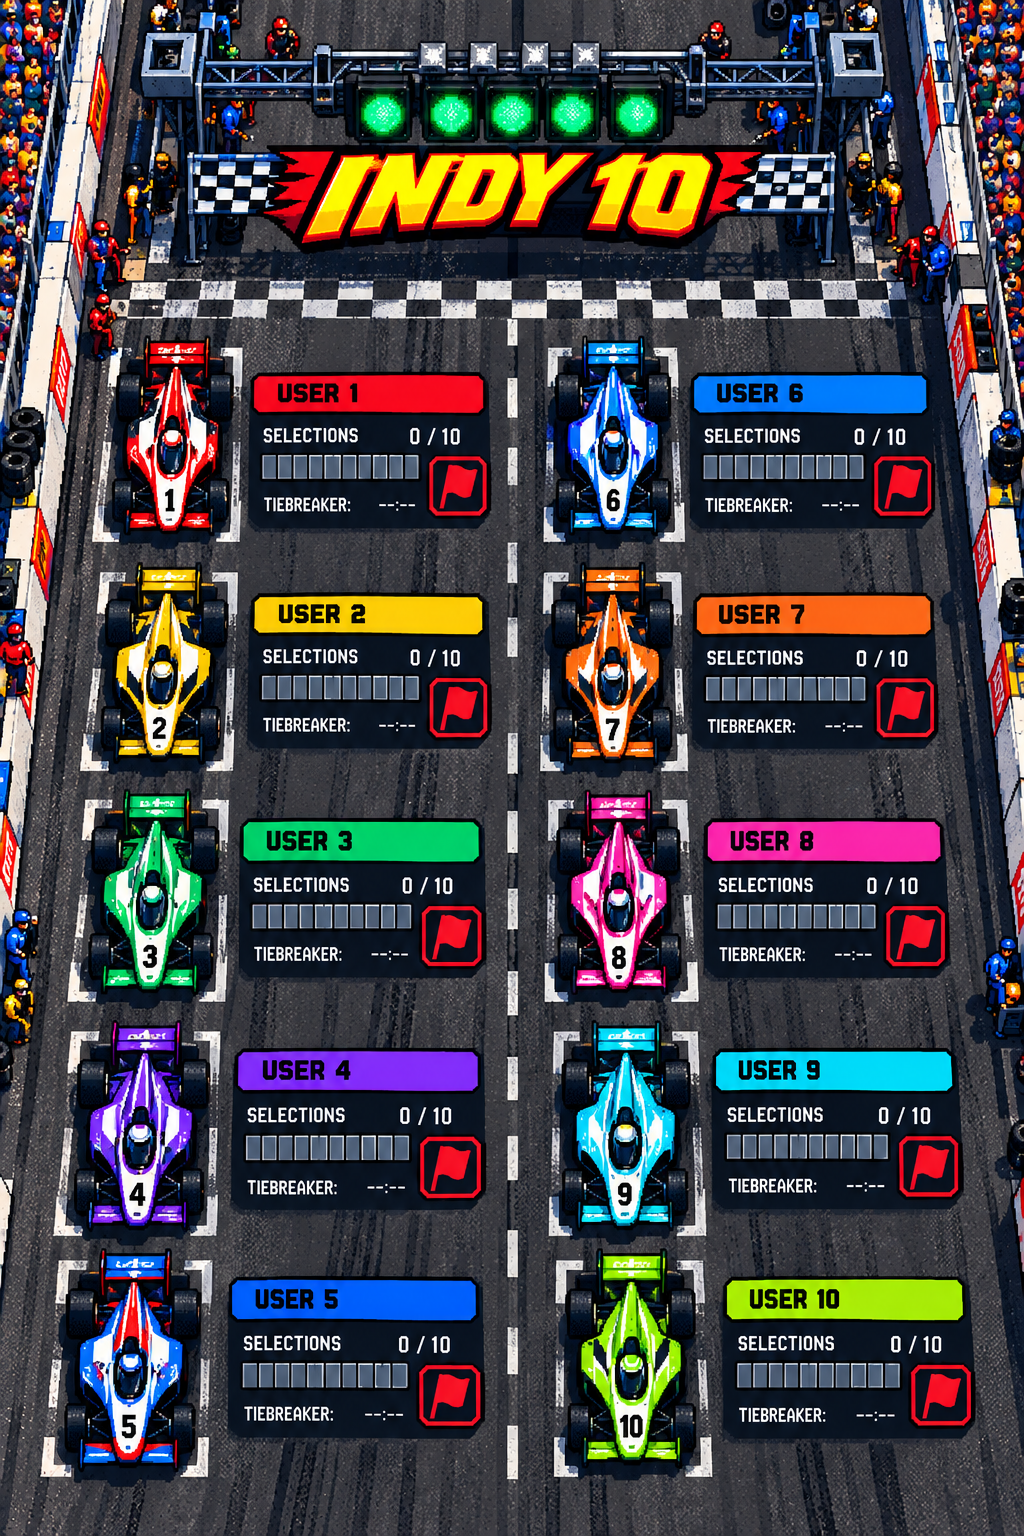
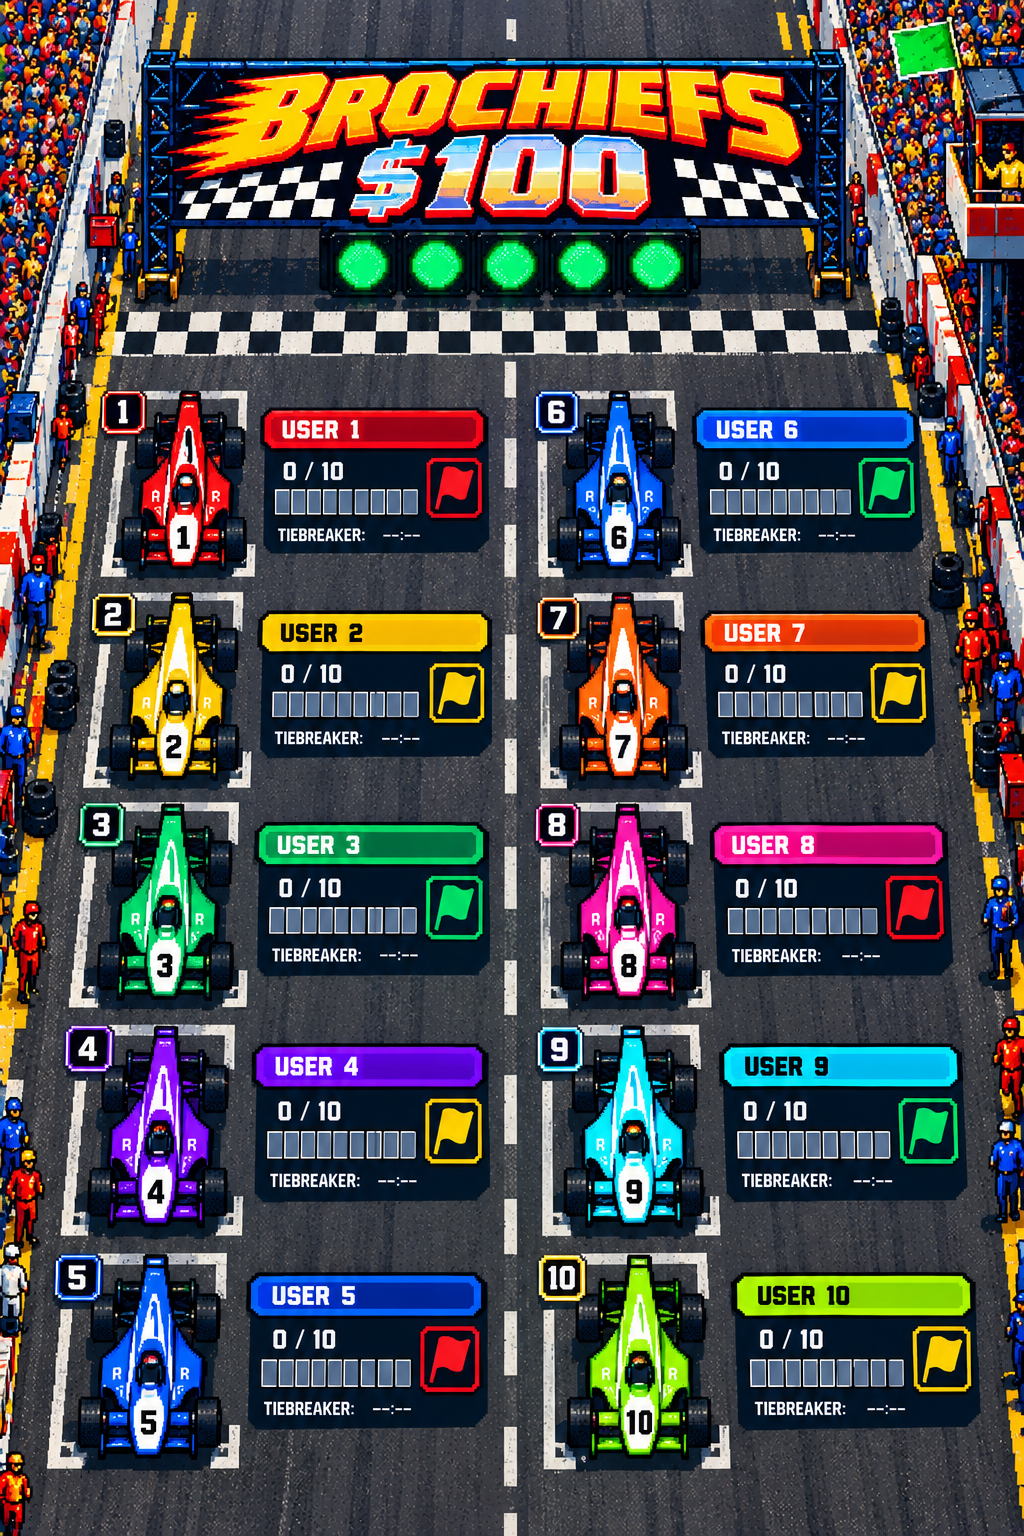
Grid card: Brochiefs $100 art, panel corners measured from it, wider flag repaint
Claude-Session: https://claude.ai/code/session_01CNtMicKV35wV5Y3B3WSquQ

diff --git a/gridcard.js b/gridcard.js
@@ -51,7 +51,7 @@
   // Panel geometry on the background picture (1024x1536): five rows in two
   // columns, measured from the art. Everything drawn is relative to a
   // panel's name-bar corner.
-  const ROWS = [376, 597, 822, 1051, 1281], COLS = [254, 694];
+  const PANELS = [[265, 410], [263, 614], [259, 825], [256, 1047], [251, 1276], [697, 410], [705, 614], [715, 825], [724, 1047], [737, 1277]]; // measured from the art
   const BG = "assets/grid-bg.png";
   let bgImg = null;
   const loadBg = () => new Promise((res) => { if (bgImg) return res(bgImg); const im = new Image(); im.onload = () => { bgImg = im; res(im); }; im.onerror = () => res(null); im.src = BG; });
@@ -63,12 +63,15 @@
   const sat = (p) => Math.max(p[0], p[1], p[2]) - Math.min(p[0], p[1], p[2]);
   const bright = (p) => sat(p) > 100 && Math.max(p[0], p[1], p[2]) > 140;
   function findPanel(ctx, ex, ey) {
-    const strip = ctx.getImageData(ex - 40, ey + 18, 90, 1).data;
-    let x = ex;
-    for (let k = 0; k < 90; k++) { const p = strip.slice(k * 4, k * 4 + 3); if (bright(p) && bright(strip.slice(k * 4 + 12, k * 4 + 15))) { x = ex - 40 + k; break; } }
-    const col = ctx.getImageData(x + 10, ey - 30, 1, 70).data;
-    let y = ey;
-    for (let k = 0; k < 70; k++) { const p = col.slice(k * 4, k * 4 + 3); if (bright(p) && bright(col.slice(k * 4 + 12, k * 4 + 15))) { y = ey - 30 + k; break; } }
+    // Top-left corner of the name bar: bright here, bright to the right and
+    // below, dark to the left and above. Raster scan a window around the
+    // expected spot, so a panel drawn a little off still lands.
+    const x0 = ex - 20, y0 = ey - 34, w = 90, hgt = 70;
+    const img = ctx.getImageData(x0, y0, w, hgt).data;
+    const at = (x, y) => { const k = ((y - y0) * w + (x - x0)) * 4; return img.slice(k, k + 3); };
+    const ok = (x, y) => x >= x0 + 4 && y >= y0 + 4 && x < x0 + w - 6 && y < y0 + hgt - 6 && bright(at(x, y)) && bright(at(x + 5, y)) && bright(at(x, y + 5)) && bright(at(x + 5, y + 5)) && !bright(at(x - 4, y)) && !bright(at(x, y - 4));
+    let x = ex, y = ey, found = false;
+    for (let yy = y0 + 4; yy < y0 + hgt - 6 && !found; yy++) for (let xx = x0 + 4; xx < x0 + w - 6; xx++) if (ok(xx, yy)) { x = xx; y = yy; found = true; break; }
     const p = ctx.getImageData(x + 8, y + 18, 1, 1).data;
     return [x, y, `rgb(${p[0]},${p[1]},${p[2]})`];
   }
@@ -98,38 +101,40 @@
     ctx.textAlign = "center"; ctx.textBaseline = "middle";
     ctx.font = "700 20px 'Press Start 2P', monospace"; ctx.fillStyle = "#000";
     const line = `${WEEK_LABEL.toUpperCase()} · ${left} · ${ready}/${rows.length} ON THE GRID`;
-    ctx.fillRect(W / 2 - ctx.measureText(line).width / 2 - 16, 316, ctx.measureText(line).width + 32, 36);
-    ctx.fillStyle = "#ffe45e"; ctx.fillText(line, W / 2, 334);
+    ctx.fillRect(W / 2 - ctx.measureText(line).width / 2 - 16, 362, ctx.measureText(line).width + 32, 36);
+    ctx.fillStyle = "#ffe45e"; ctx.fillText(line, W / 2, 380);
 
     rows.forEach((r, i) => {
       // P1..P5 down the left column, P6..P10 down the right, like the art.
-      const [px, py, colour] = findPanel(ctx, COLS[Math.floor(i / 5)], ROWS[i % 5]);
+      const [px, py] = PANELS[i];
+      const p = ctx.getImageData(px + 8, py + 18, 1, 1).data;
+      const colour = `rgb(${p[0]},${p[1]},${p[2]})`;
       const fc = r.state === "go" ? "#39ff88" : r.state === "warn" ? "#ffe45e" : "#e0102a";
       // Name over the bar.
-      ctx.fillStyle = colour; ctx.fillRect(px + 12, py + 6, 205, 26);
+      ctx.fillStyle = colour; ctx.fillRect(px + 10, py + 7, 200, 24);
       ctx.font = "900 22px Orbitron, system-ui, sans-serif"; ctx.textAlign = "left"; ctx.fillStyle = "#fff";
       ctx.lineWidth = 4; ctx.strokeStyle = "rgba(0,0,0,.85)"; ctx.lineJoin = "round";
-      ctx.strokeText(shown(r.name).toUpperCase(), px + 22, py + 19); ctx.fillText(shown(r.name).toUpperCase(), px + 22, py + 19);
-      // Selections count.
-      ctx.fillStyle = BGC; ctx.fillRect(px + 140, py + 45, 76, 26);
-      ctx.font = "700 20px Orbitron, system-ui, sans-serif"; ctx.textAlign = "right"; ctx.fillStyle = "#fff";
-      ctx.fillText(`${r.n} / ${total}`, px + 212, py + 58);
+      ctx.strokeText(shown(r.name).toUpperCase(), px + 20, py + 19); ctx.fillText(shown(r.name).toUpperCase(), px + 20, py + 19);
+      // Count, top left of the panel body.
+      ctx.fillStyle = BGC; ctx.fillRect(px + 12, py + 46, 120, 28);
+      ctx.font = "700 22px Orbitron, system-ui, sans-serif"; ctx.textAlign = "left"; ctx.fillStyle = "#fff";
+      ctx.fillText(`${r.n} / ${total}`, px + 18, py + 60);
       // Ten cells.
-      ctx.fillStyle = BGC; ctx.fillRect(px + 6, py + 77, 164, 28);
+      ctx.fillStyle = BGC; ctx.fillRect(px + 8, py + 77, 146, 28);
       for (let k = 0; k < total; k++) {
-        const cx = px + 8 + k * 15.8;
-        ctx.fillStyle = k < r.n ? fc : "#4a5468"; ctx.fillRect(cx, py + 80, 13.5, 22);
-        ctx.fillStyle = k < r.n ? "rgba(255,255,255,.35)" : "rgba(255,255,255,.12)"; ctx.fillRect(cx, py + 80, 13.5, 5);
+        const cx = px + 10 + k * 14;
+        ctx.fillStyle = k < r.n ? fc : "#4a5468"; ctx.fillRect(cx, py + 80, 12, 22);
+        ctx.fillStyle = k < r.n ? "rgba(255,255,255,.35)" : "rgba(255,255,255,.12)"; ctx.fillRect(cx, py + 80, 12, 5);
       }
       // Tiebreaker value.
-      ctx.fillStyle = BGC; ctx.fillRect(px + 112, py + 116, 62, 26);
+      ctx.fillStyle = BGC; ctx.fillRect(px + 110, py + 112, 64, 26);
       ctx.font = "700 18px Orbitron, system-ui, sans-serif"; ctx.textAlign = "right"; ctx.fillStyle = r.tb ? "#fff" : "#8a93a6";
-      ctx.fillText(r.tb ? r.tb : "--", px + 170, py + 129);
+      ctx.fillText(r.tb ? r.tb : "--", px + 162, py + 124);
       // Flag box: border and a pixel flag in the state colour.
-      ctx.fillStyle = BGC; ctx.fillRect(px + 172, py + 75, 70, 70);
-      ctx.strokeStyle = fc; ctx.lineWidth = 4; ctx.strokeRect(px + 178, py + 81, 52, 58);
-      px_(ctx, SMALL_FLAG, px + 188, py + 88, 5, { F: fc, P: "#ddd" });
-      if (r.state === "go") for (let yy = 0; yy < 6; yy++) for (let xx = 0; xx < 8; xx++) if ((xx + yy) % 2) { ctx.fillStyle = "#052010"; ctx.fillRect(px + 188 + xx * 5, py + 88 + yy * 5, 5, 5); }
+      ctx.fillStyle = BGC; ctx.fillRect(px + 154, py + 42, 80, 74);
+      ctx.strokeStyle = fc; ctx.lineWidth = 4; ctx.strokeRect(px + 161, py + 48, 56, 60);
+      px_(ctx, SMALL_FLAG, px + 171, py + 56, 5, { F: fc, P: "#ddd" });
+      if (r.state === "go") for (let yy = 0; yy < 6; yy++) for (let xx = 0; xx < 8; xx++) if ((xx + yy) % 2) { ctx.fillStyle = "#052010"; ctx.fillRect(px + 171 + xx * 5, py + 56 + yy * 5, 5, 5); }
     });
 
     // Modal with the picture and share/save.
